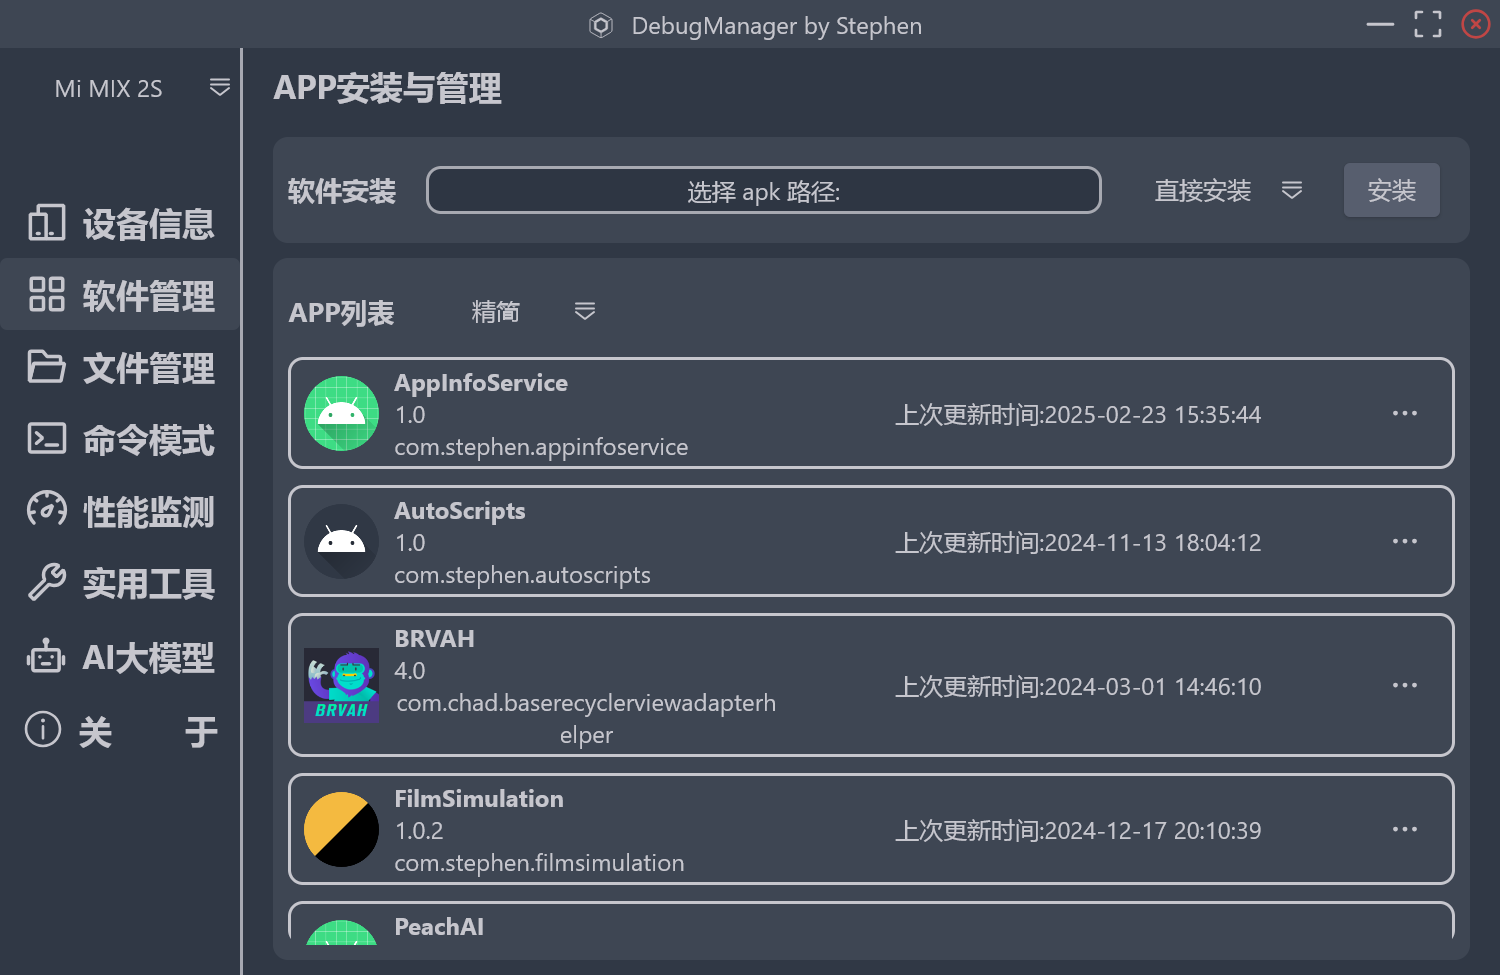
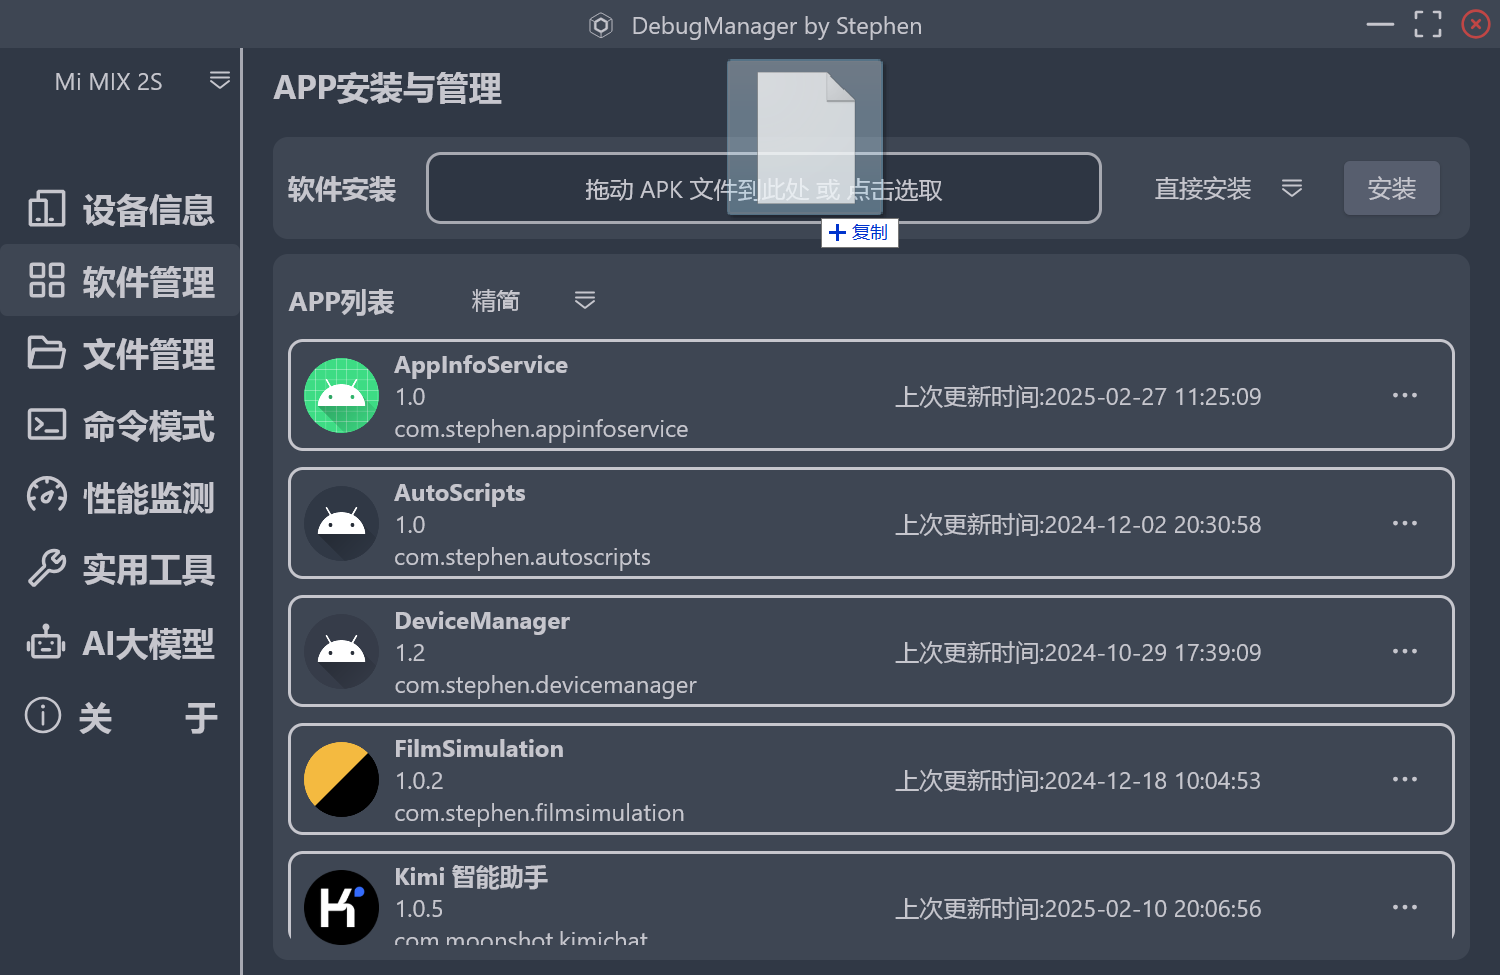
doc:更新readme

diff --git a/README.md b/README.md
@@ -25,7 +25,7 @@ Desktop端调试车机Android设备的软件，基于Compose Multiplatform，支
 
 ![](/screenshots/blogs_cmp_appmanage.png)
 
-1. 上方的软件安装，点击后会有一个文件选取弹窗，选取电脑中的apk文件。再配置正确的安装参数，降级安装，覆盖安装等，可将apk安装到系统。一般在安装第三方的apk做验证时使用，需要注意车机系统内置的priv-app，不可以通过install来更新，只能通过下面的push功能来置换。
+1. 上方的软件安装，可以选取电脑中的apk文件。再配置正确的安装参数，降级安装，覆盖安装等，可将apk安装到系统。一般在安装第三方的apk做验证时使用，需要注意车机系统内置的priv-app，不可以通过install来更新，只能通过下面的push功能来置换。
 2. 下面的app列表展示了此系统里的一些软件的名称，版本，包名，更新时间，列表可以选择筛选后的精简部分还是显示全部app。每个条目最右侧有三个点，点开则为更详细的操作弹窗。
 3. 打开应用界面，可以直接打开对应app的主界面，需要注意这个对于Activity驱动的普通app可以生效，而对于空调，座椅，allapp这种悬浮窗架构的app是不生效的。
 4. 卸载，一般用于直接run进去的app，或者第三方app，对于系统预制的app，直接利用uninstall卸载是没有用的，只能移除apk来实现。
@@ -40,8 +40,9 @@ Desktop端调试车机Android设备的软件，基于Compose Multiplatform，支
 
 1. 可以在Android设备内部创建，删除，移动，复制文件和文件夹。
 2. 还可以支持电脑文件的推送，android设备文件的拉取。
-3. 请非专业人员不要进行文件的删除和移动操作，以免造成车机异常。
-4. 上方提供了一些快捷操作按钮，可以返回上级页面，根目录，sdcard页面，priv-app页面，达到快速切换目录。
+3. 现已支持文件拖动添加
+4. 请非专业人员不要进行文件的删除和移动操作，以免造成车机异常。
+5. 上方提供了一些快捷操作按钮，可以返回上级页面，根目录，sdcard页面，priv-app页面，达到快速切换目录。
 目前区分不了link类型的文件夹，其会被识别成文件，但是可以通过其真实的路径一步一步访问到。
 
 ### 命令界面
